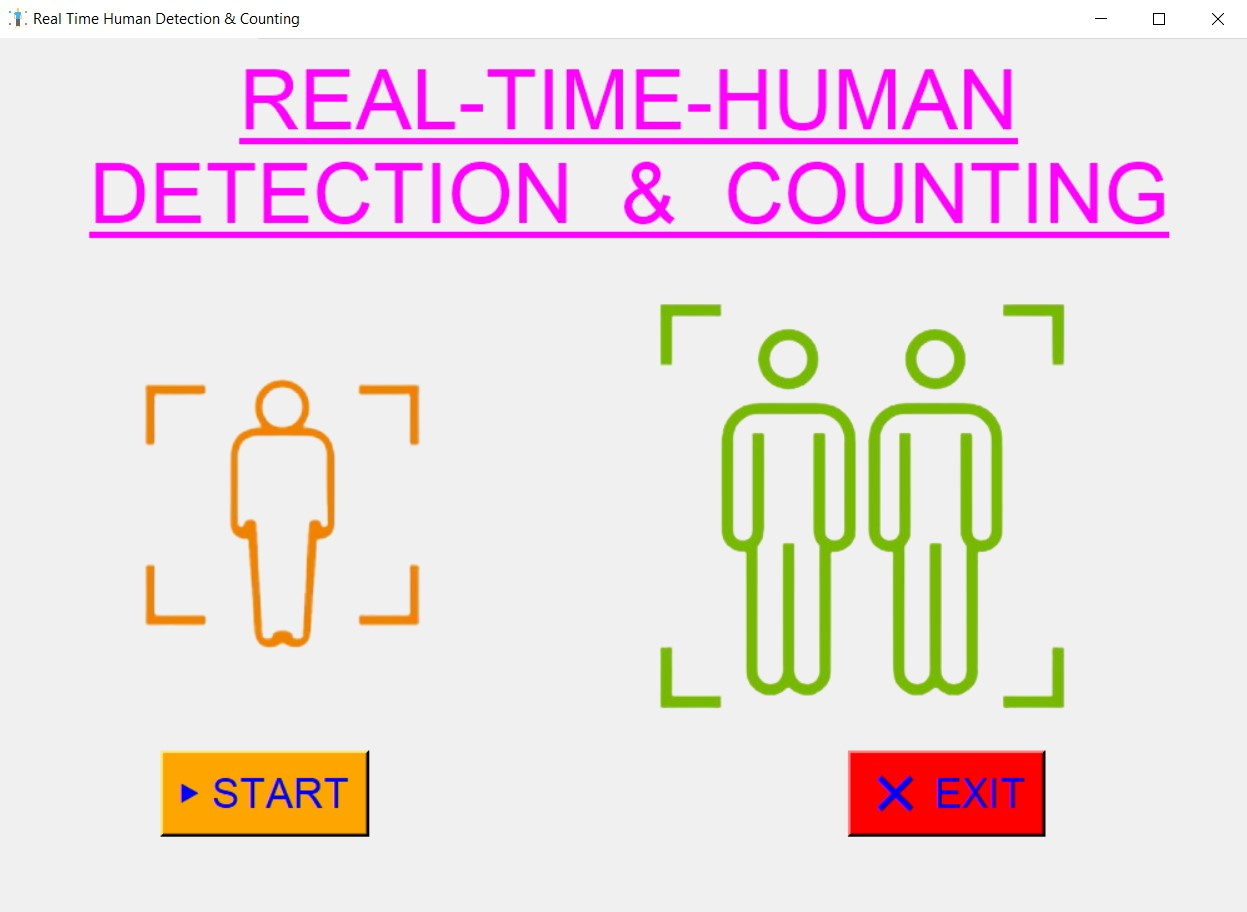
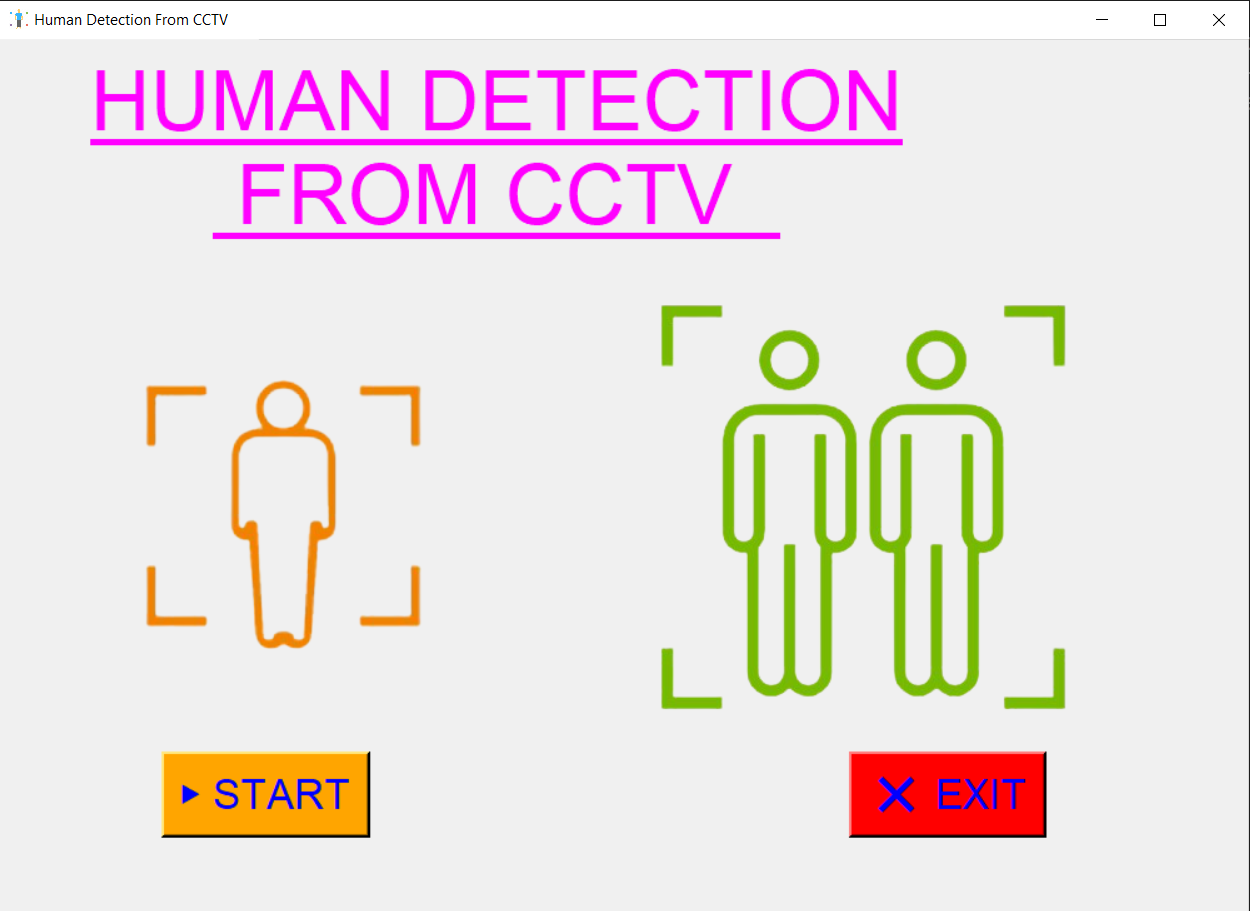
added some changes

diff --git a/main.py b/main.py
@@ -16,12 +16,12 @@ from fpdf import FPDF
 
 # Main Window & Configuration
 window = tk.Tk()
-window.title("Real Time Human Detection & Counting")
+window.title("Human Detection From CCTV")
 window.iconbitmap('Images/icon.ico')
 window.geometry('1000x700')
 
 # top label
-start1 = tk.Label(text = "REAL-TIME-HUMAN\nDETECTION  &  COUNTING", font=("Arial", 50,"underline"), fg="magenta") # same way bg
+start1 = tk.Label(text = "HUMAN DETECTION\n FROM CCTV  ", font=("Arial", 50,"underline"), fg="magenta") # same way bg
 start1.place(x = 70, y = 10)
 
 # function defined to start the main application
@@ -60,7 +60,7 @@ window.mainloop()
 if exit1==False:
     # Main Window & Configuration of window1
     window1 = tk.Tk()
-    window1.title("Real Time Human Detection & Counting")
+    window1.title("Human Detection FROM CCTV")
     window1.iconbitmap('Images/icon.ico')
     window1.geometry('1000x1000')
 
@@ -830,8 +830,8 @@ if exit1==False:
                             cv2.rectangle(img, (box[1], box[0]), (box[3], box[2]), (255, 0, 0), 2)  # cv2.FILLED
                             cv2.putText(img, f'P{person, round(scores[i], 2)}', (box[1] - 30, box[0] - 8),cv2.FONT_HERSHEY_COMPLEX, 0.5, (0, 0, 255), 1)  # (75,0,130),
                             acc += scores[i]
-                            if (scores[i] > max_acc3):
-                                max_acc3 = scores[i]
+                            if (scores[i] > max_acc4):
+                                max_acc4 = scores[i]
 
                     if (person > max_count4):
                         max_count4 = person

diff --git a/send_mail.py b/send_mail.py
@@ -1,0 +1,37 @@
+import os
+import smtplib
+from email.mime.text import MIMEText
+from email.mime.image import MIMEImage
+from email.mime.multipart import MIMEMultipart
+
+
+
+
+fromaddr = "myapptest525@gmail.com"
+password = "6302649445sS@"
+
+def SendMail(ImgFileName):
+    with open(ImgFileName, 'rb') as f:
+        img_data = f.read()
+
+    msg = MIMEMultipart()
+    msg['Subject'] = 'subject'
+    msg['From'] = '@mail.cc'
+    msg['To'] = fromaddr
+
+    text = MIMEText("test")
+    msg.attach(text)
+    image = MIMEImage(img_data, name=os.path.basename(ImgFileName))
+    msg.attach(image)
+
+    s = smtplib.SMTP('smtp.gmail.com', 587)
+    s.ehlo()
+    s.starttls()
+    s.ehlo()
+    s.login(fromaddr, password)
+    s.sendmail(fromaddr, fromaddr, msg.as_string())
+    print("Mail send successfully.")
+    s.quit()
+
+
+SendMail("img1.png")
